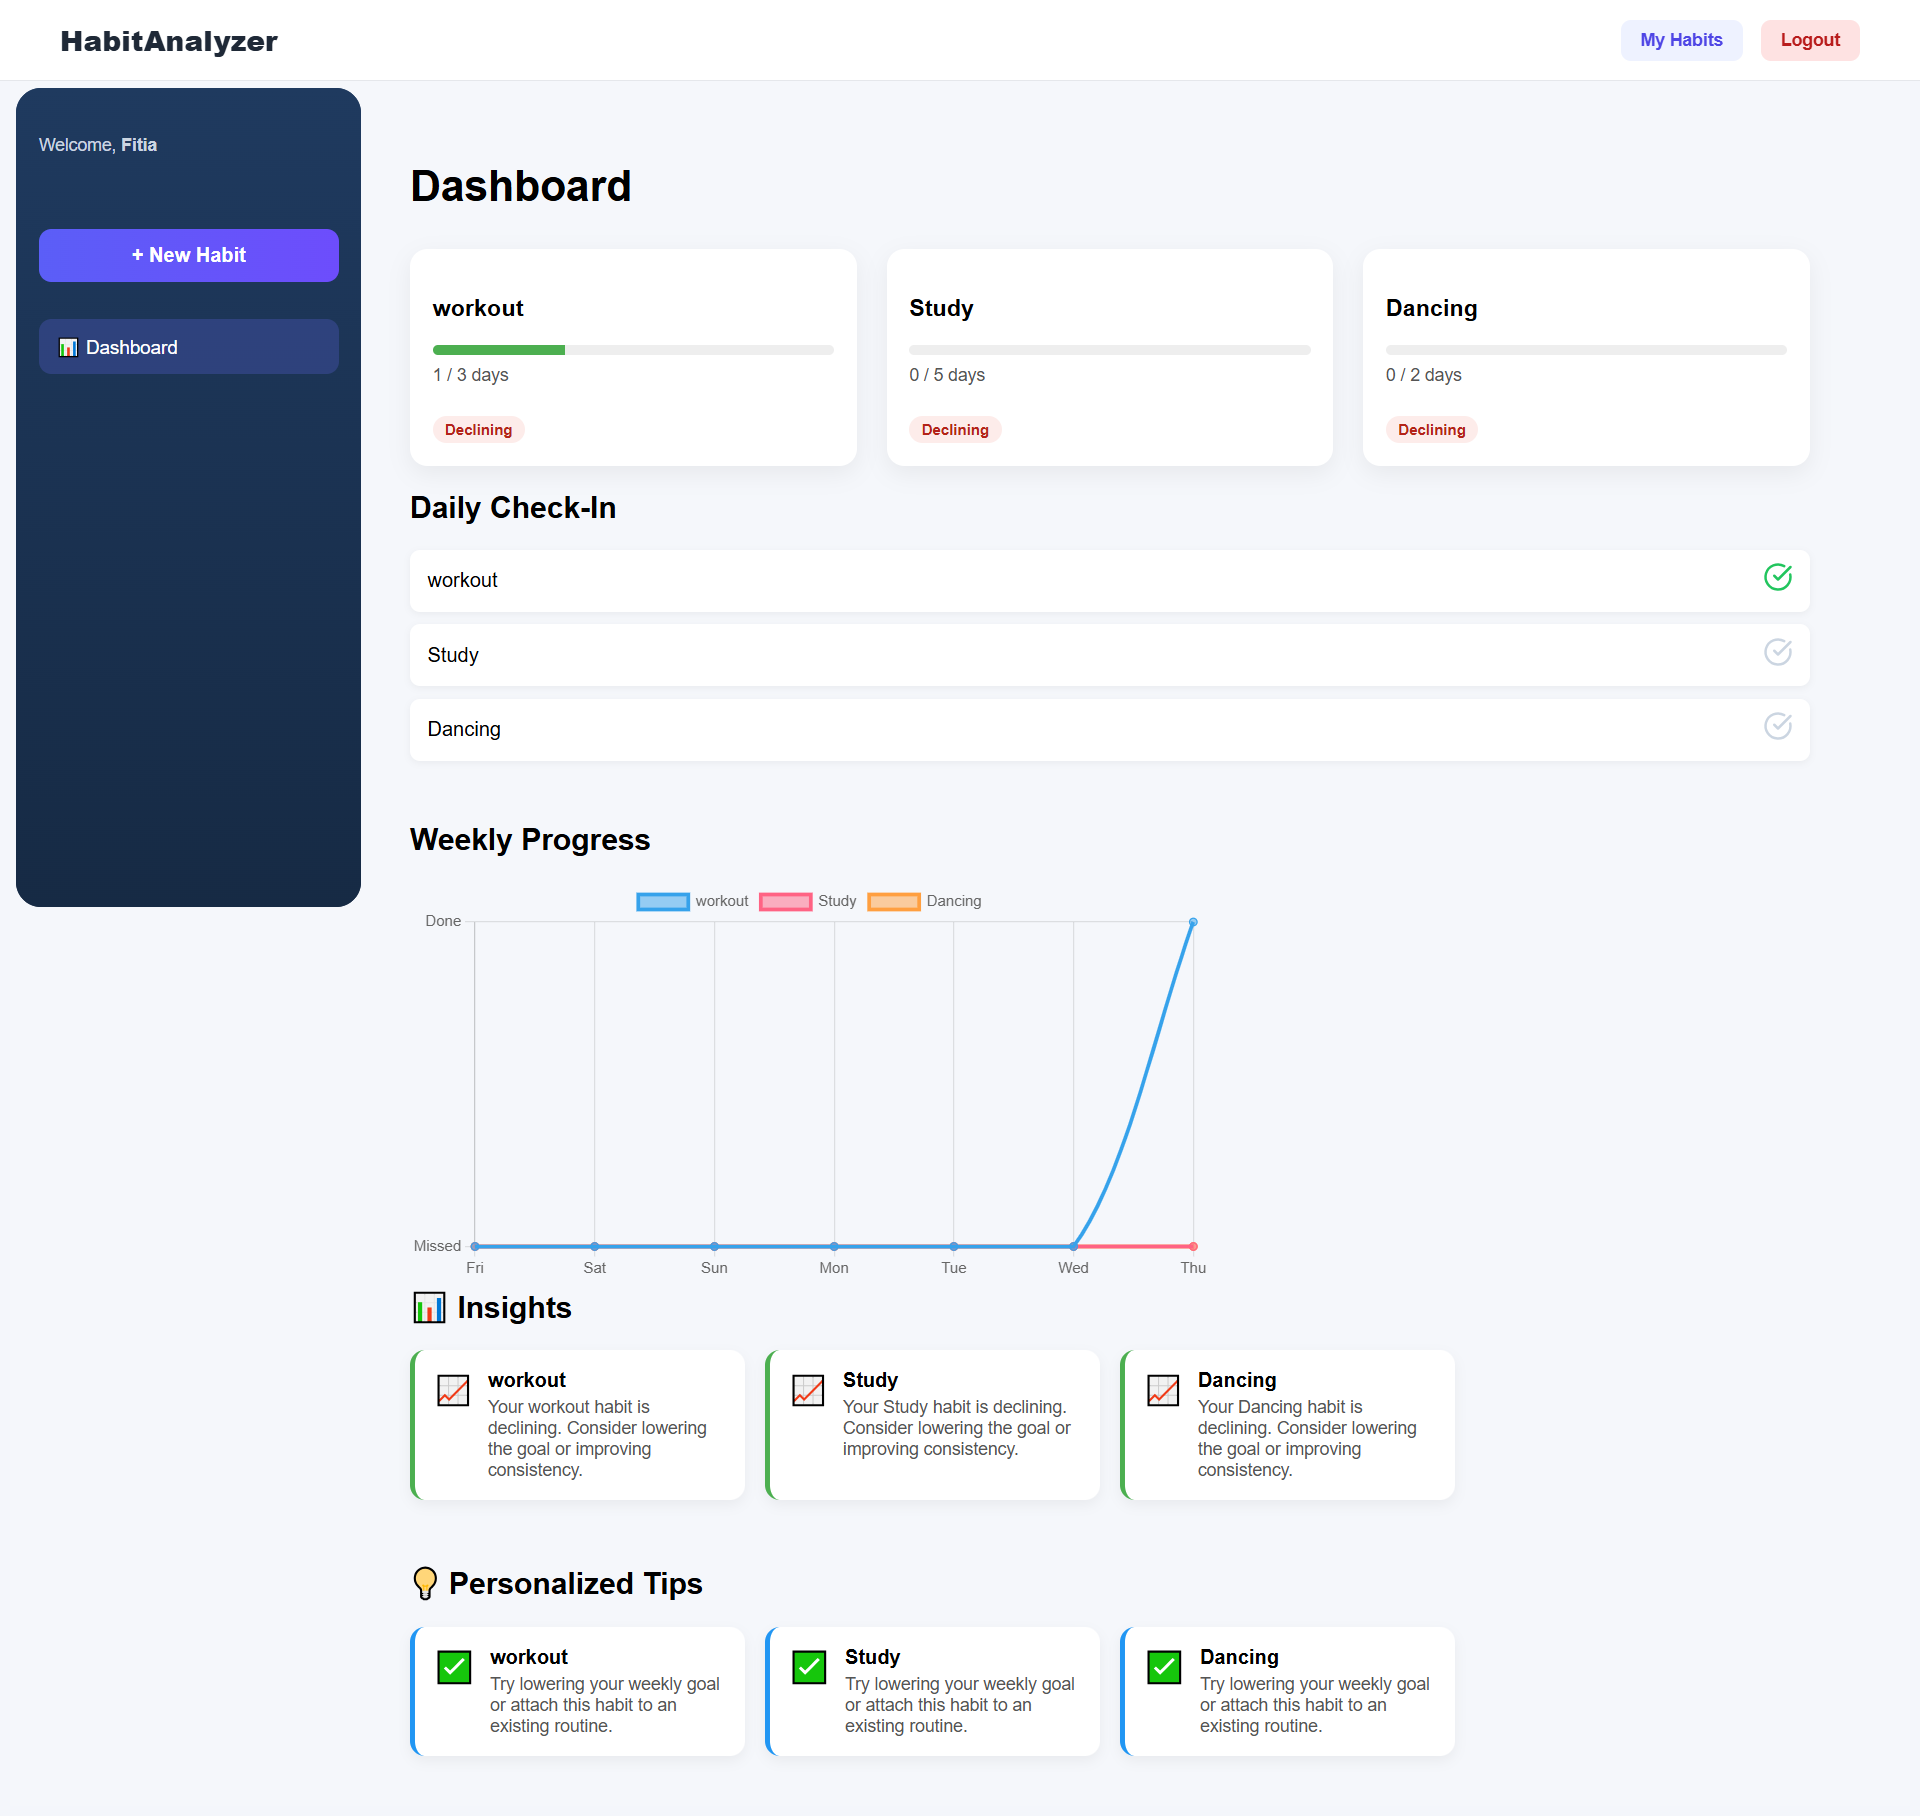
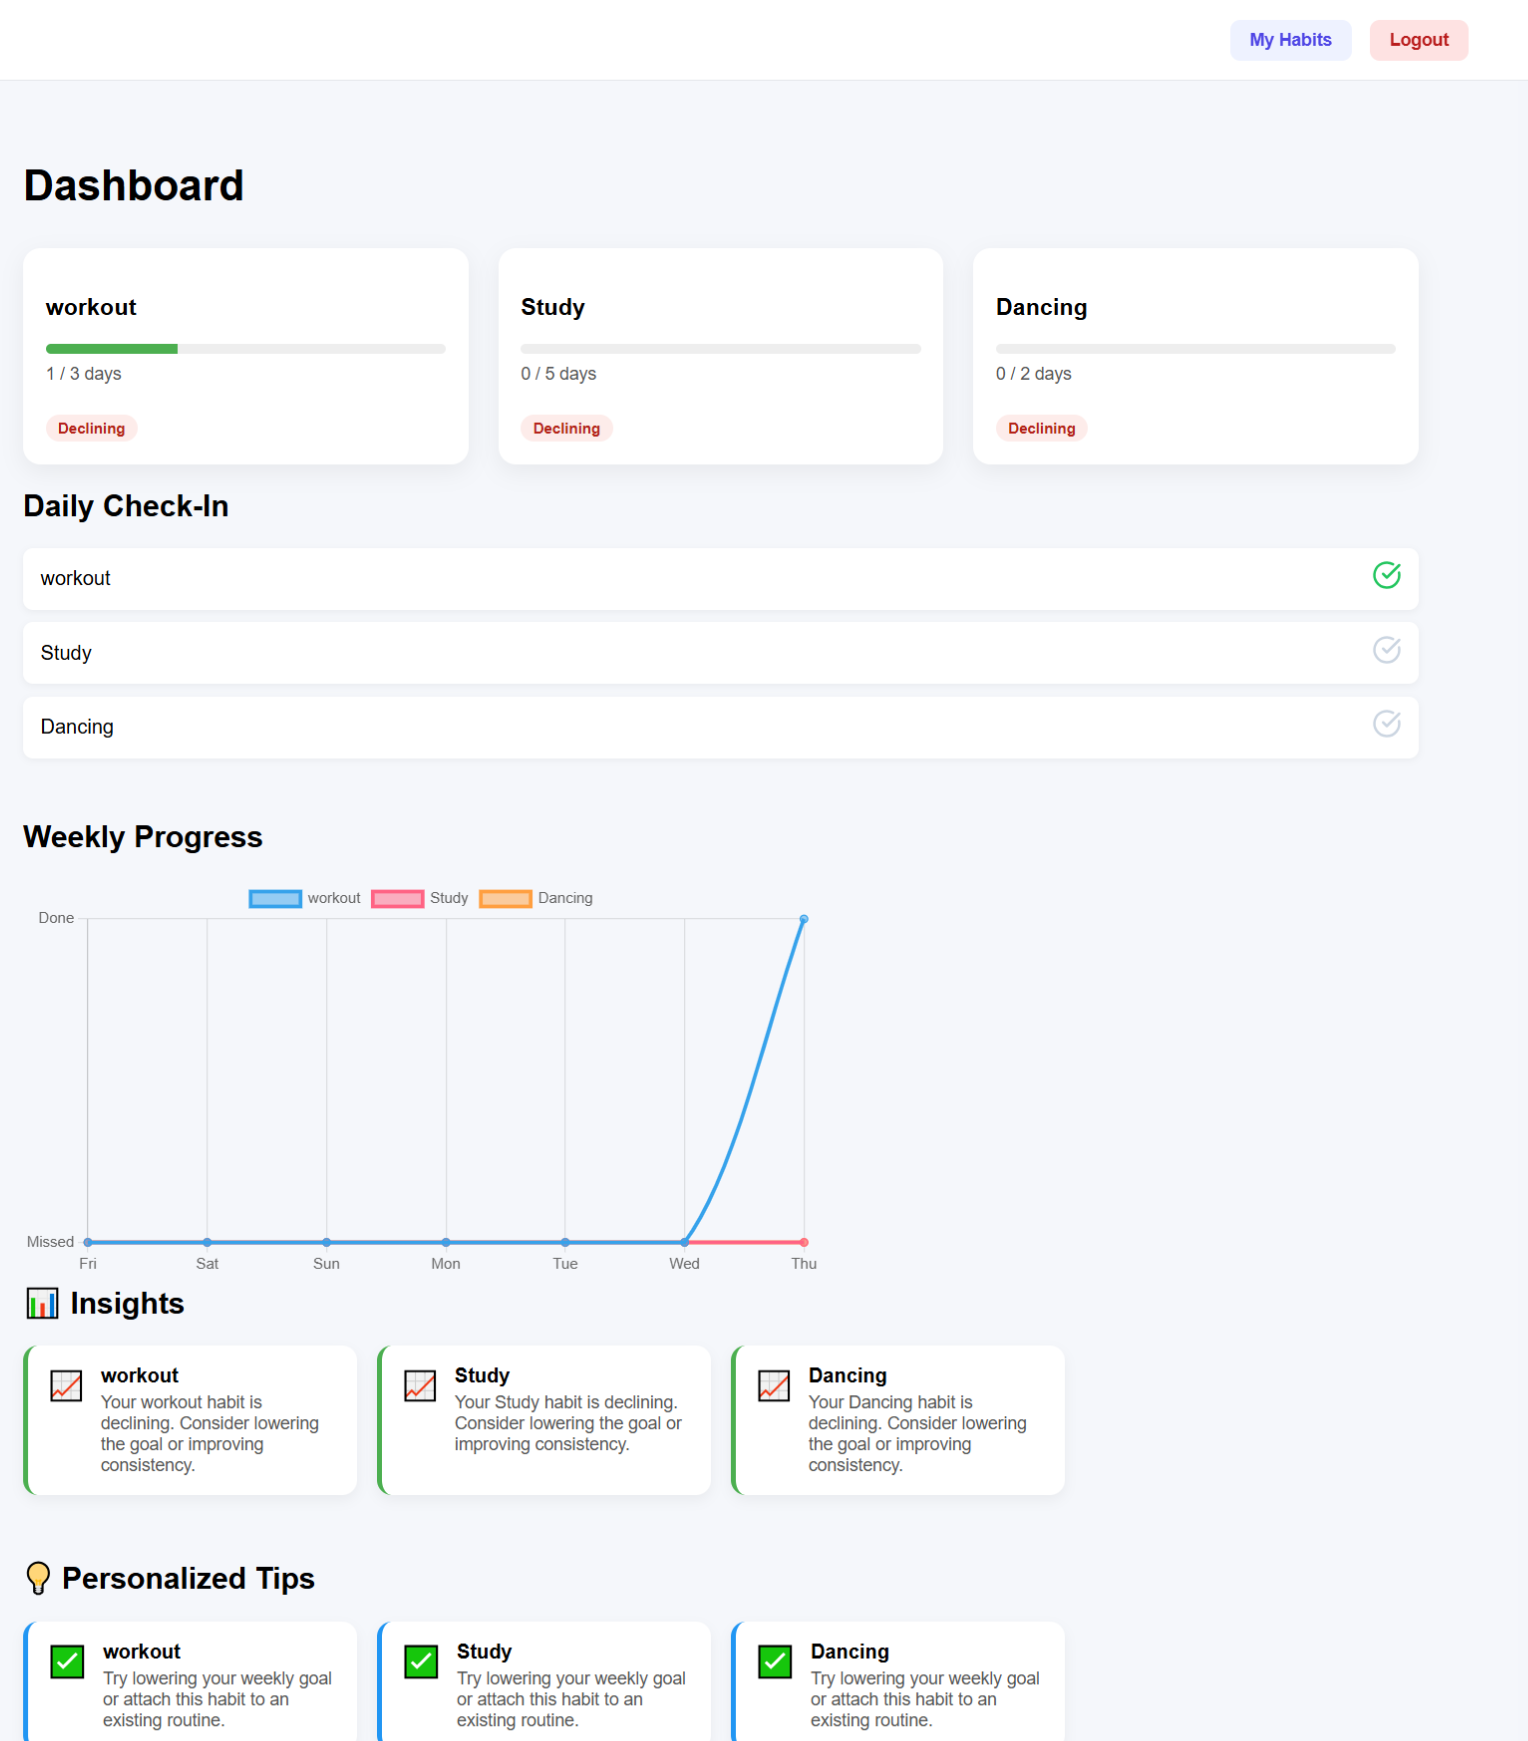
Effect on projects cards

diff --git a/src/components/Card.jsx b/src/components/Card.jsx
@@ -7,12 +7,13 @@ const Card = ({title, description, images, tags, sourcecode}) => {
 
   const prev = () => setCurrentImage((i) => i === 0 ? images.length - 1 : i - 1)
   const next = () => setCurrentImage((i) => i === images.length - 1 ? 0 : i + 1)
+
   return (
-    <div className='border border-white/50 rounded-xl overflow-hidden flex flex-col px-auto lg:p-4 gap-3'>
+    <div className='border border-white/50 rounded-xl overflow-hidden flex flex-col p-2 lg:p-4 gap-3 hover:-translate-y-2 transition-transform duration-300'>
       <div className='relative'>
         <img src={images[currentImage]} className='w-full h-48 object-cover'/>
-        <button onClick={prev} className='absolute left-2 top-1/2 -translate-y-1/2 bg-black/50 text-white px-2 py-1 rounded-full'>←</button>
-        <button onClick={next} className='absolute right-2 top-1/2 -translate-y-1/2 bg-black/50 text-white px-2 py-1 rounded-full'>→</button>
+        <button onClick={prev} className='absolute left-2 top-1/2 -translate-y-1/2 bg-black/50 text-white px-2 py-1 rounded-full hover:scale-125 transition-transform duration-300'>←</button>
+        <button onClick={next} className='absolute right-2 top-1/2 -translate-y-1/2 bg-black/50 text-white px-2 py-1 rounded-full hover:scale-125 transition-transform duration-300'>→</button>
       </div>
       <div className='flex flex-col gap-3'>
         <h3 className='text-white '>{title}</h3>

diff --git a/src/components/Projects.jsx b/src/components/Projects.jsx
@@ -12,7 +12,7 @@ const Projects = () => {
         "/Projects/devtoolkit_terminal.png"
       ],
       tags: ["Python", "Flask", "REST API", "Json"],
-      sourceCode: "https://github.com/Fitia26/"
+      sourceCode: "https://github.com/Fitia26/DeveloperTools"
     },
     {
       title: "Habit Analyzer",
@@ -23,17 +23,9 @@ const Projects = () => {
         "/Projects/Habit analyser 3.png"
       ],
       tags: ["Python", "Flask", "HTML5", "CSS3", "JavaScript", "Chart.js"],
-      sourceCode: "https://github.com/Fitia26/"
+      sourceCode: "https://github.com/Fitia26/habit-analyzer"
     },
-    {
-      title: "DevTool Kit 3",
-      description: "A RESTful API built with Flask — no frontend, pure backend. Provides a collection of developer utilities accessible via clean HTTP endpoints.",
-      images: [
-        "/Projects/devtoolkit_terminal.png"
-      ],
-      tags: ["Python", "Flask", "REST API", "Json"],
-      sourceCode: "https://github.com/Fitia26/"
-    }
+    
   ]
   return (
     <section id="projects" ref={ref} className='animate-hidden w-full min-h-screen px-6 lg:px-30 pt-24'>

diff --git a/src/components/Navbar.jsx b/src/components/Navbar.jsx
@@ -26,7 +26,7 @@ export default function Navbar(){
         return () => observer.disconnect()
     }, [])
     return(  
-        <nav className="fixed top-0 bg-dark w-full text-text-muted px-12 py-5 z-50">
+        <nav className="fixed top-0 bg-dark w-full text-text-muted z-50">
             <div className="flex justify-between items-center px-12 py-5">
                 <span className='text-white font-bold text-xl'>
                     RF<span className='text-primary'>.</span>
